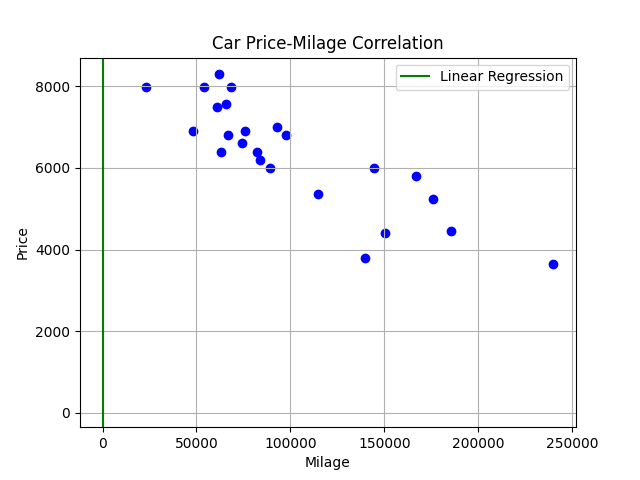
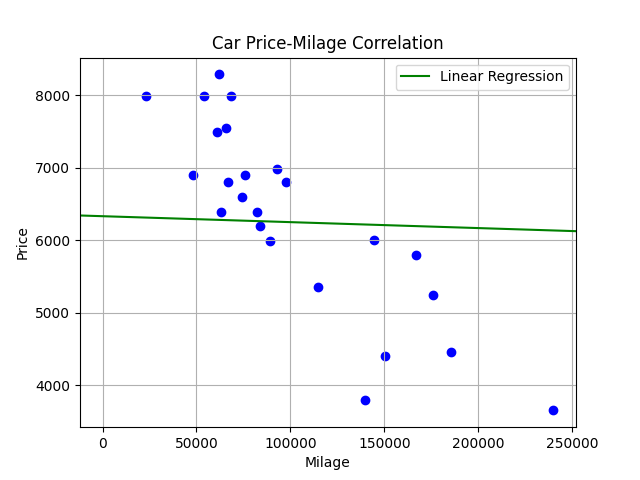
standarization

diff --git a/main.py b/main.py
@@ -1,14 +1,14 @@
 import pandas as pd
 import matplotlib.pyplot as plt
 
-def estimatedPrice(theta0, theta1, estimatePrice):
+from train import trainModel
+
+def getEstPrice(theta0, theta1, estimatePrice):
     try:
         milage = int(input("PLEASE ENTER THE MILAGE: "))
-    except EOFError:
-        return
     except KeyboardInterrupt:
         return
-    except ValueError as e:
+    except Exception as e:
         print(f"\n---> ERROR: {e} <---")
         return
     
@@ -20,51 +20,14 @@ def estimatedPrice(theta0, theta1, estimatePrice):
     marker.remove()
     text.remove()
 
-def drawDataset(theta0, theta1, estimatePrice):
-    try:
-        df = pd.read_csv('data.csv')
-    except FileNotFoundError as e:
-        print(f"\n---> ERROR: {e} <---")
-        return(1)
-
-    plt.scatter(df["km"], df["price"], marker="o", color="blue")
-
-    trainModel(df, theta0, theta1, estimatePrice)
-
+def drawDataset(df):
+    plt.scatter(df.iloc[:, 0], df.iloc[:, 1], marker="o", color="blue")
     plt.savefig("plot.png")
 
-    return(0)
-
-def trainModel(df, theta0, theta1, estimatePrice):
-    # MAX NUMBER OF STEPS 1000 OR if step size is < than 0,001 (we consider is almost exact)
-    learning_rate = 0.01
-    stepsize_theta0 = 1
-    stepsize_theta1 = 1
-    for i in range(1):
-        if (abs(stepsize_theta0) > 0.001):
-            sum = 0
-            for row in df.itertuples():
-                sum += estimatePrice(theta0, theta1, row.km) - row.price
-                #print("estimatePrice(theta0, theta1, row.km):", estimatePrice(theta0, theta1, row.km), "- row.price:", row.price)
-            stepsize_theta0 = learning_rate * (1/df.shape[0]) * sum
-            print("sum:", sum)
-            #print("stepsize_theta0:", stepsize_theta0)
-            theta0 = theta0 - stepsize_theta0
-        if (abs(stepsize_theta1) > 0.001):
-            sum = 0
-            for row in df.itertuples():
-                sum += (estimatePrice(theta0, theta1, row.km) - row.price) * row.km
-            stepsize_theta1 = learning_rate * (1/df.shape[0]) * sum
-            print("sum:", sum)
-            #print("stepsize_theta1:", stepsize_theta1)
-            theta1 = theta1 - stepsize_theta1
-        if (abs(stepsize_theta0) < 0.001 and abs(stepsize_theta1) < 0.001):
-            break
-
-    print("theta0:", theta0, "theta1:", theta1)    
+def drawRegression(theta0, theta1):
     plt.axline(xy1=(0, theta0), slope=theta1, color="green", label="Linear Regression")
     plt.legend()
-    print("TRAINING MODEL...")
+    plt.savefig("plot.png")
     
 def main():
     plt.title("Car Price-Milage Correlation")
@@ -85,14 +48,23 @@ def main():
             program_input = input("\nWHAT CAN I DO FOR YOU?:\n\t- ESTIMATE CAR PRICE (ESTIMATE)\n\t- TRAIN MODEL (TRAIN)\n\t- EXIT PROGRAM (EXIT)\n\n- ")
         except KeyboardInterrupt:
             break
-        except EOFError:
+        except Exception:
             break
 
         if program_input == "ESTIMATE":
-            estimatedPrice(theta0, theta1, estimatePrice)
+            getEstPrice(theta0, theta1, estimatePrice)
         elif program_input == "TRAIN":
-            if (drawDataset(theta0, theta1, estimatePrice) > 0):
+            try:
+                df = pd.read_csv('data.csv')
+            except Exception as e:
+                print(f"\n---> ERROR: {e} <---")
                 continue
+            
+            drawDataset(df)
+            theta = trainModel(df, theta0, theta1, estimatePrice)
+            theta0 = theta[0]
+            theta1 = theta[1]  
+            drawRegression(theta0, theta1)
     
     print("\nGOODBYE!")
             

diff --git a/train.py b/train.py
@@ -1,0 +1,48 @@
+import pandas as pd
+import matplotlib.pyplot as plt
+
+def standarizeDataset(df):
+    std_df = df.copy(deep=True)
+    for key, value in df.items():
+        mean = value.mean()
+        std_var = value.std()
+        std_df[key] = (value - mean) / std_var
+    
+    return (std_df)
+
+def trainModel(df, theta0, theta1, estimatePrice):
+    # MAX NUMBER OF STEPS 1000 OR if step size is < than 0,001 (we consider is almost exact)
+    learning_rate = 0.001
+    epsilon = 0.001
+    reverseStd = lambda std_value, mean, std_var: std_value * std_var + mean
+
+    #theta0 = (theta0 - df.iloc[:, 1].mean()) / df.iloc[:, 1].std()
+    #theta1 = (theta1 - df.iloc[:, 0].mean()) / df.iloc[:, 0].std()
+    std_df = standarizeDataset(df)
+    for i in range(1000):
+        sum = 0
+        for row in std_df.itertuples():
+            sum += estimatePrice(theta0, theta1, row.km) - row.price
+            #print("estimatePrice(theta0, theta1, row.km):", estimatePrice(theta0, theta1, row.km), "- row.price:", row.price, "sum:", sum)
+        stepsize_theta0 = learning_rate * (1/std_df.shape[0]) * sum
+        print("sum:", sum)
+        print("stepsize_theta0:", stepsize_theta0)
+        
+        sum = 0
+        for row in std_df.itertuples():
+            sum += (estimatePrice(theta0, theta1, row.km) - row.price) * row.km
+        stepsize_theta1 = learning_rate * (1/std_df.shape[0]) * sum
+        print("sum:", sum)
+        print("stepsize_theta1:", stepsize_theta1)
+        
+        theta0 = theta0 - stepsize_theta0
+        theta1 = theta1 - stepsize_theta1
+        
+        print("theta0:", theta0, "theta1:", theta1)
+        if abs(stepsize_theta0) < epsilon and abs(stepsize_theta1) < epsilon:
+            break
+
+    #print(theta0, theta1)
+    print(reverseStd(theta0, df.iloc[:, 1].mean(), df.iloc[:, 1].std()), reverseStd(theta1, df.iloc[:, 0].mean(), df.iloc[:, 0].std()))    
+    return(reverseStd(theta0, df.iloc[:, 1].mean(), df.iloc[:, 1].std())), reverseStd(theta1, df.iloc[:, 0].mean(), df.iloc[:, 0].std())
+
